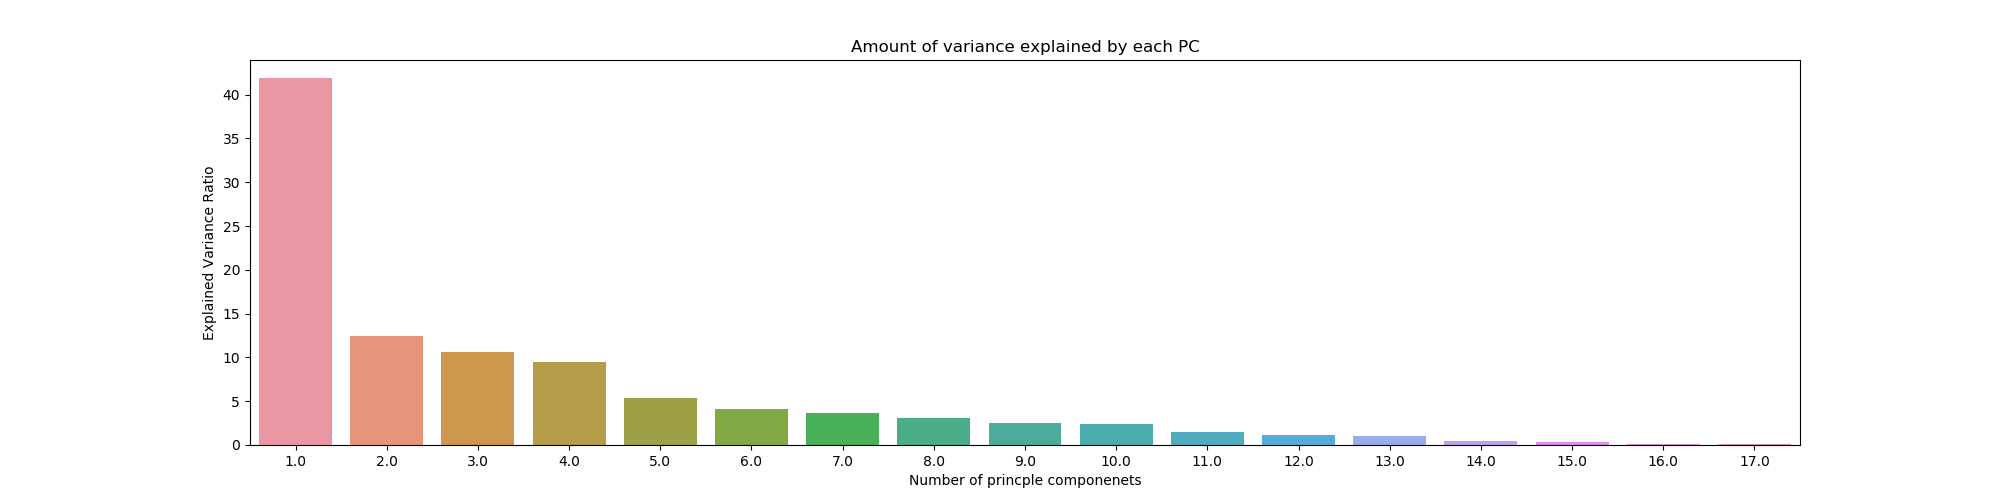
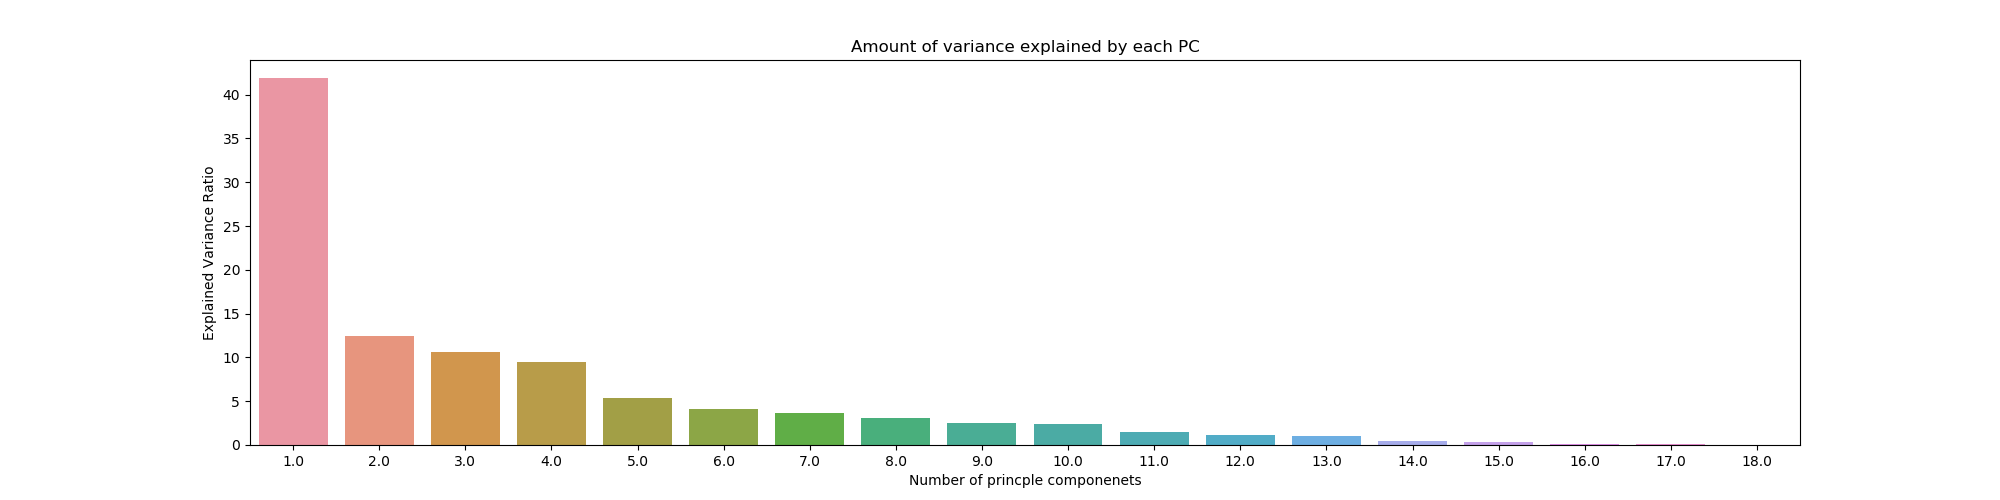
hhkhj

Changed region(s): [[0.155, 0.66, 0.837, 0.93], [0.868, 0.9, 0.899, 0.93], [0.124, 0.9, 0.155, 0.93]]

diff --git a/Secuirty/sec3.py b/Secuirty/sec3.py
@@ -217,7 +217,7 @@ plt.savefig('pca2.png')
 
 
 
-pca2=PCA(0.90)
+pca2=PCA(0.95)
 pca2.fit(X_scaled_train)
 pca2.fit(X_scaled_test)
 
@@ -283,7 +283,7 @@ batch_size=16
 def create_model():
 # define the keras model
     model = Sequential()
-    model.add(Dense(9, input_dim=9, activation='sigmoid'))
+    model.add(Dense(10, input_dim=10, activation='sigmoid'))
     # model.add(layers.Dropout(0.5))
     model.add(Dense(4, activation='sigmoid'))
     model.add(Dense(4, activation = 'softmax'))
